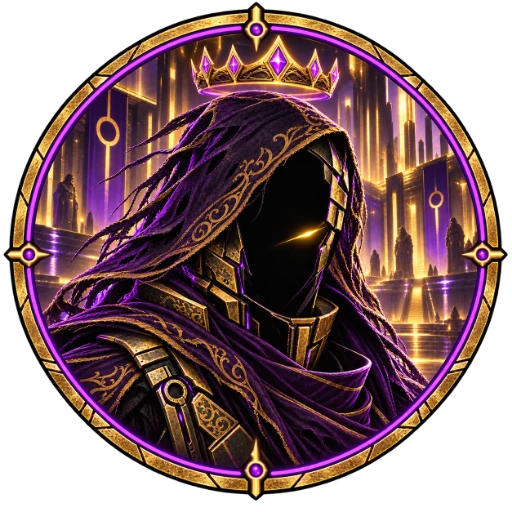
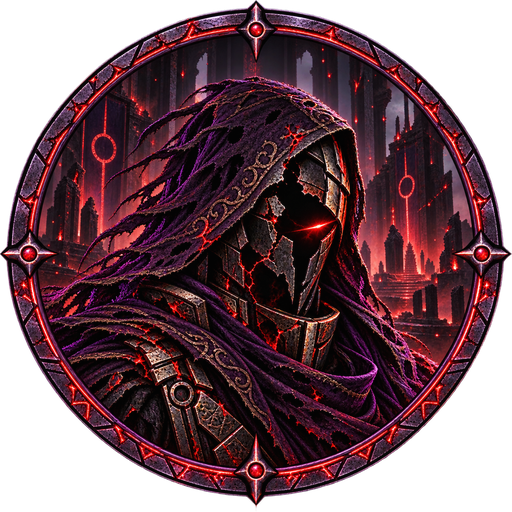
art: remake Sovereign Broker as broken warlord

diff --git a/js/broker-transmog-catalog.js b/js/broker-transmog-catalog.js
@@ -32,7 +32,7 @@
   const CUSTOM_ID = 'custom';
 
   // Bump ART_VERSION whenever set art is replaced so browsers fetch it fresh.
-  const ART_VERSION = '2';
+  const ART_VERSION = '3';
   const art = folder => ({ avatar: `assets/transmog/${folder}/avatar.webp?v=${ART_VERSION}`, thumb: `assets/transmog/${folder}/thumb.webp?v=${ART_VERSION}` });
 
   const SETS = Object.freeze([
